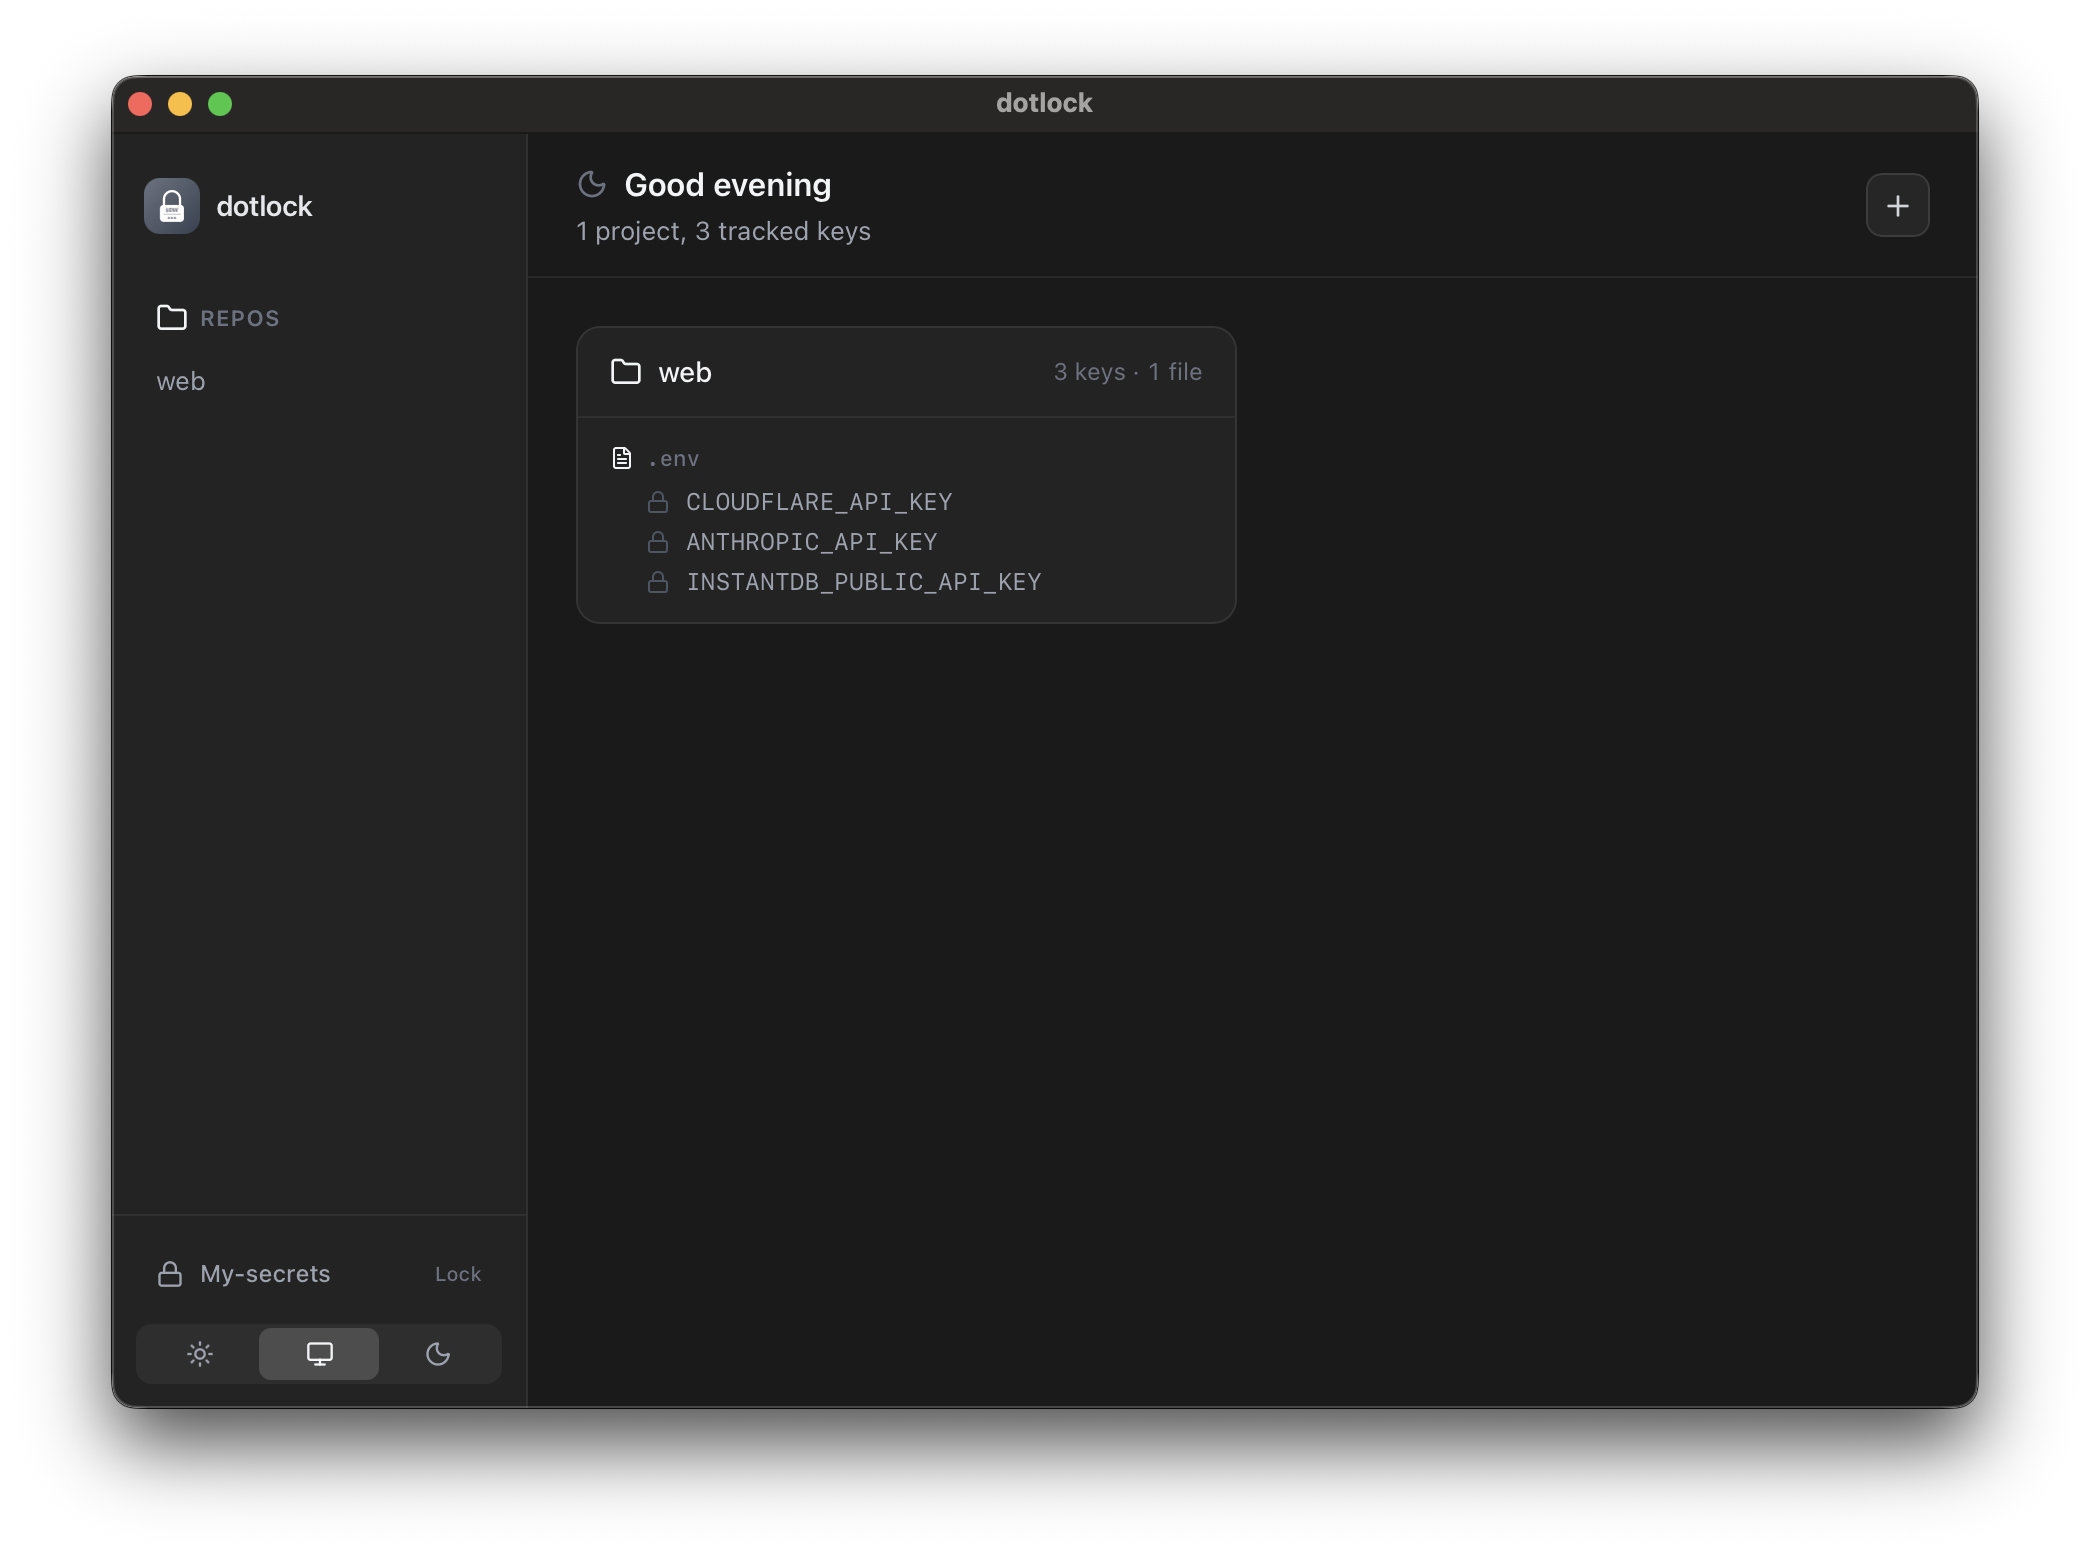
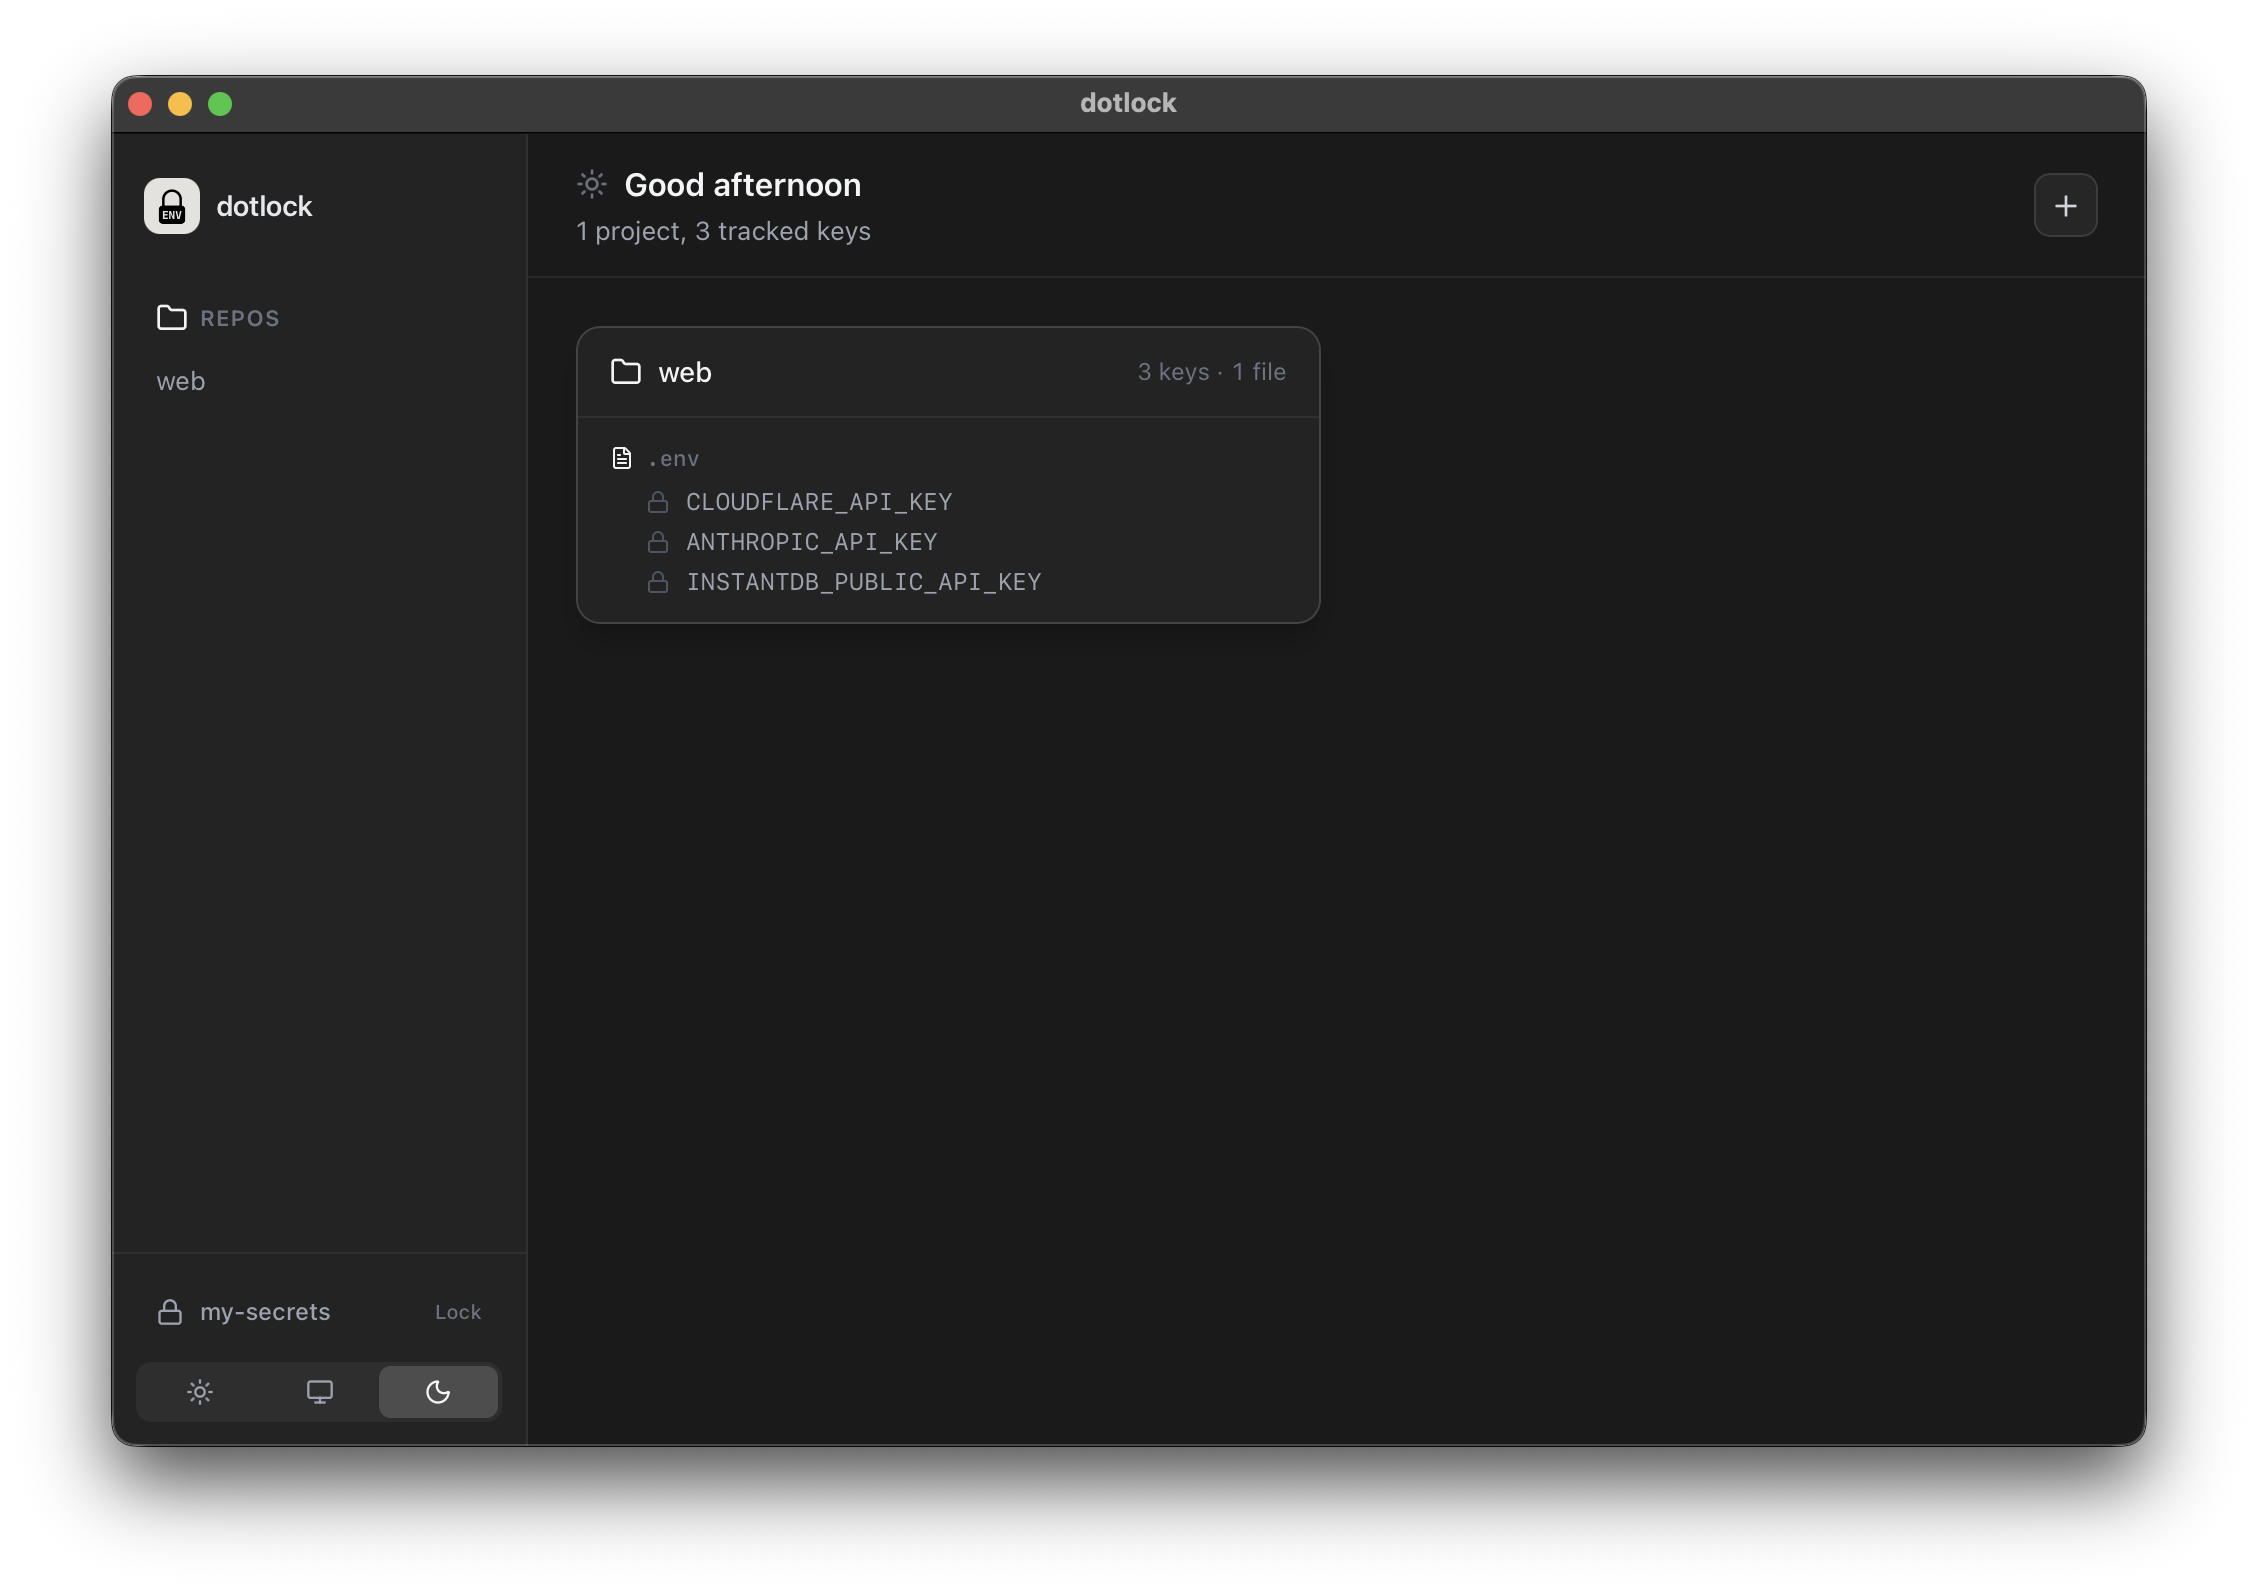
wip

diff --git a/src/mainview/components/Logo.tsx b/src/mainview/components/Logo.tsx
@@ -1,34 +1,19 @@
 import type * as React from "react";
 
 const LogoSvg: React.FC<React.SVGProps<SVGSVGElement>> = (props) => (
-  <svg
-    xmlns="http://www.w3.org/2000/svg"
-    viewBox="20 10.25 80 103.75"
-    {...props}
-  >
+  <svg xmlns="http://www.w3.org/2000/svg" viewBox="0 0 120 120" {...props}>
     <defs>
       <mask id="m">
         <rect width="80" height="56" x="20" y="58" fill="#fff" rx="12" />
         <text
           x="60"
-          y="80"
+          y="98"
           fontFamily="'SF Mono','Menlo','Monaco','Courier New',monospace"
-          fontSize="17"
+          fontSize="33"
           fontWeight="700"
           textAnchor="middle"
         >
-          $ENV
-        </text>
-        <path stroke="#000" strokeWidth="1.2" d="M32 88h56" />
-        <text
-          x="60"
-          y="103"
-          fontFamily="'SF Mono','Menlo','Monaco','Courier New',monospace"
-          fontSize="11"
-          letterSpacing="3"
-          textAnchor="middle"
-        >
-          ●●●
+          ENV
         </text>
       </mask>
     </defs>
@@ -39,15 +24,7 @@ const LogoSvg: React.FC<React.SVGProps<SVGSVGElement>> = (props) => (
       strokeWidth="7.5"
       d="M34 62V40a26 26 0 0 1 52 0v22"
     />
-    <rect
-      width="80"
-      height="56"
-      x="20"
-      y="58"
-      fill="#000"
-      mask="url(#m)"
-      rx="12"
-    />
+    <rect width="80" height="56" x="20" y="58" mask="url(#m)" rx="12" />
   </svg>
 );
 
@@ -59,9 +36,7 @@ export function Logo({ size = "lg" }: LogoProps) {
   const cls = size === "sm" ? "w-7 h-7 rounded-lg" : "w-14 h-14 rounded-2xl";
 
   return (
-    <div
-      className={`${cls} bg-[#e3e2de] flex items-center justify-center`}
-    >
+    <div className={`${cls} bg-[#e3e2de] flex items-center justify-center`}>
       <LogoSvg className={size === "sm" ? "w-5 h-5" : "w-10 h-10"} />
     </div>
   );

diff --git a/web/src/components/Logo.tsx b/web/src/components/Logo.tsx
@@ -2,51 +2,32 @@ export function Logo({ className = "w-9 h-9" }: { className?: string }) {
   return (
     <svg
       xmlns="http://www.w3.org/2000/svg"
-      viewBox="20 10.25 80 103.75"
+      viewBox="0 0 120 120"
       className={className}
     >
       <defs>
-        <mask id="logo-mask">
+        <mask id="m">
           <rect width="80" height="56" x="20" y="58" fill="#fff" rx="12" />
           <text
             x="60"
-            y="80"
+            y="98"
             fontFamily="'SF Mono','Menlo','Monaco','Courier New',monospace"
-            fontSize="17"
+            fontSize="33"
             fontWeight="700"
             textAnchor="middle"
           >
-            $ENV
-          </text>
-          <path stroke="#000" strokeWidth="1.2" d="M32 88h56" />
-          <text
-            x="60"
-            y="103"
-            fontFamily="'SF Mono','Menlo','Monaco','Courier New',monospace"
-            fontSize="11"
-            letterSpacing="3"
-            textAnchor="middle"
-          >
-            &#x25CF;&#x25CF;&#x25CF;
+            ENV
           </text>
         </mask>
       </defs>
       <path
         fill="none"
-        stroke="#141414"
+        stroke="#000"
         strokeLinecap="round"
         strokeWidth="7.5"
         d="M34 62V40a26 26 0 0 1 52 0v22"
       />
-      <rect
-        width="80"
-        height="56"
-        x="20"
-        y="58"
-        fill="#141414"
-        mask="url(#logo-mask)"
-        rx="12"
-      />
+      <rect width="80" height="56" x="20" y="58" mask="url(#m)" rx="12" />
     </svg>
   );
 }
